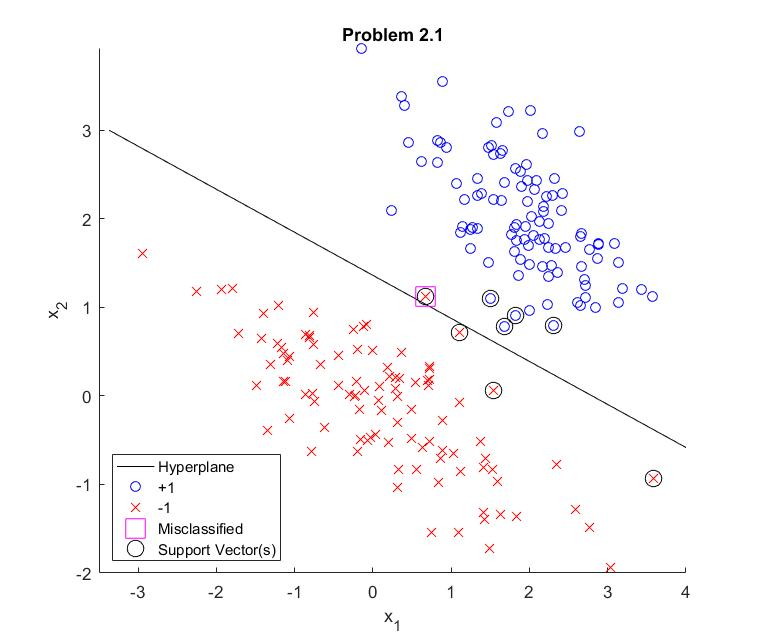
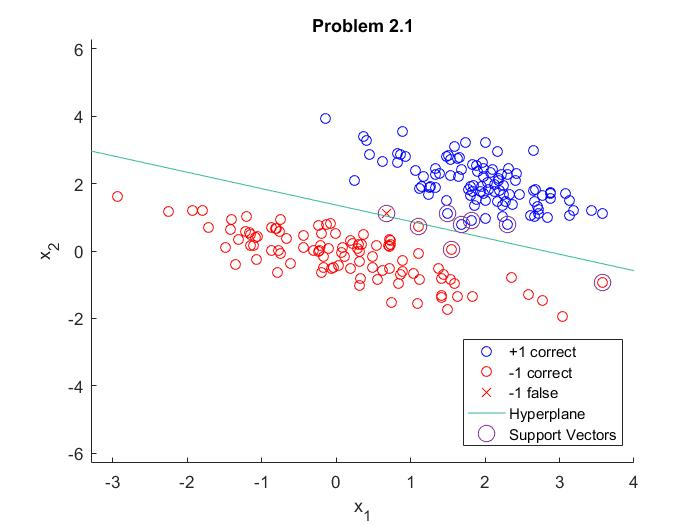
Updated 2.1

diff --git a/HW4/problem2_1.m b/HW4/problem2_1.m
@@ -1,0 +1,33 @@
+load('d1b.mat');
+%% a Train
+C = 1
+svmStruct = svmtrain(X,Y, 'BoxConstraint', C, 'autoscale', false);
+
+%% b
+Y_model = svmclassify(svmStruct,X);
+
+
+w = svmStruct.Alpha' * svmStruct.SupportVectors
+
+X_correct = X((Y == Y_model),:)
+Y_correct = Y((Y == Y_model), :);
+X_misclassified = X((Y ~= Y_model), :);
+Y_misclassified = Y((Y ~= Y_model), :);
+
+hold on
+gscatter(X_correct(:,1), X_correct(:, 2), Y_correct, 'br', 'oo'); % correct
+gscatter(X_misclassified(:, 1), X_misclassified(:, 2), Y_misclassified, 'rb', 'xx') % not correct
+ezplot(@(x1, x2) w(1)*x1 + w(2)*x2 + svmStruct.Bias) % hyperplane
+plot(svmStruct.SupportVectors(:,1),svmStruct.SupportVectors(:,2),'o','MarkerSize',10);% support vectors 
+hold off
+legend('+1 correct', '-1 correct', '-1 false', 'Hyperplane', 'Support Vectors')
+title('Problem 2.1')
+
+
+%% c
+bias = svmStruct.Bias
+
+%% d
+%        err_rate = sum(Y(P.test)~= C)/P.TestSize % mis-classification rate
+%        conMat = confusionmat(Y(P.test),C) % the confusion matrix
+soft_margin = 2 / norm(w)

diff --git a/HW4/problem2_2.m b/HW4/problem2_2.m
@@ -1,0 +1,7 @@
+load('d2.mat')
+
+%% a
+svmStruct = svmtrain(X,Y,'showplot',true);
+C = svmclassify(svmStruct,X(P.test,:),'showplot',true);
+%        err_rate = sum(Y(P.test)~= C)/P.TestSize % mis-classification rate
+%        conMat = confusionmat(Y(P.test),C) % the confusion matrix

diff --git a/HW4/weights.m b/HW4/weights.m
@@ -1,0 +1,3 @@
+function w = weights(X, Y, alpha, sv_idx)
+    w = sum(alpha .* Y(sv_idx) .* X(sv_idx, :), 1)
+end
